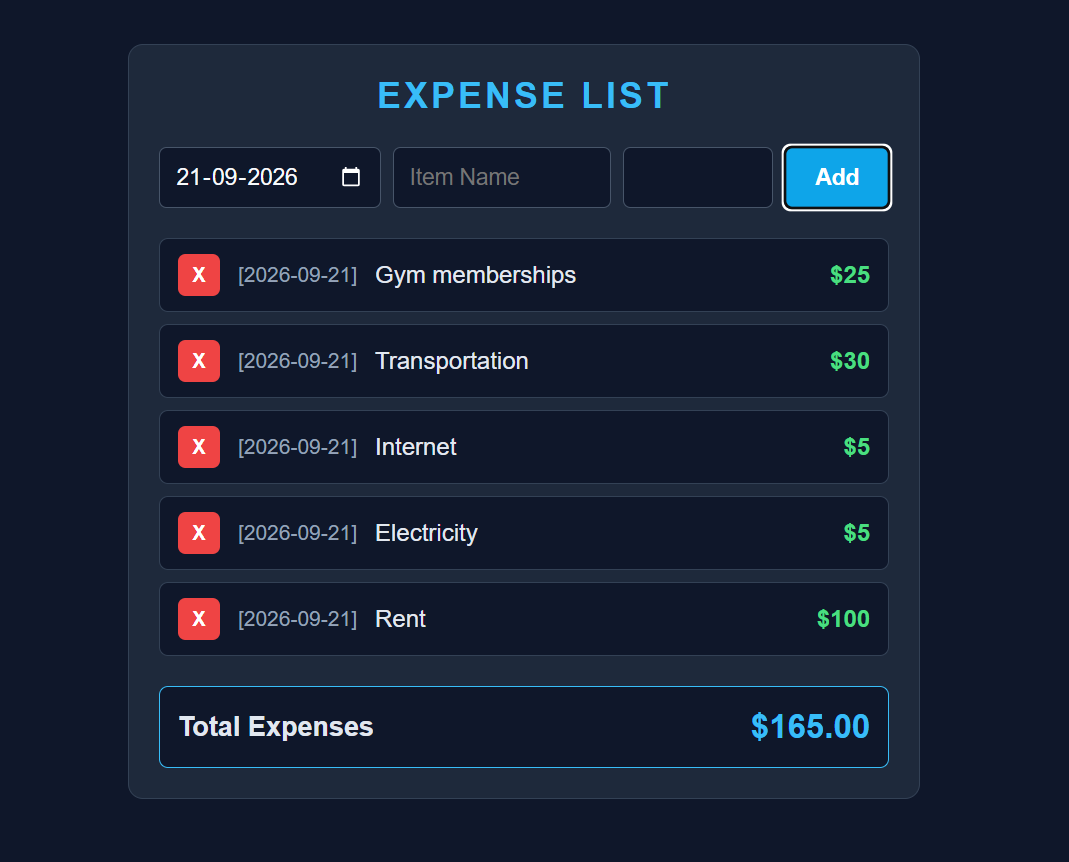
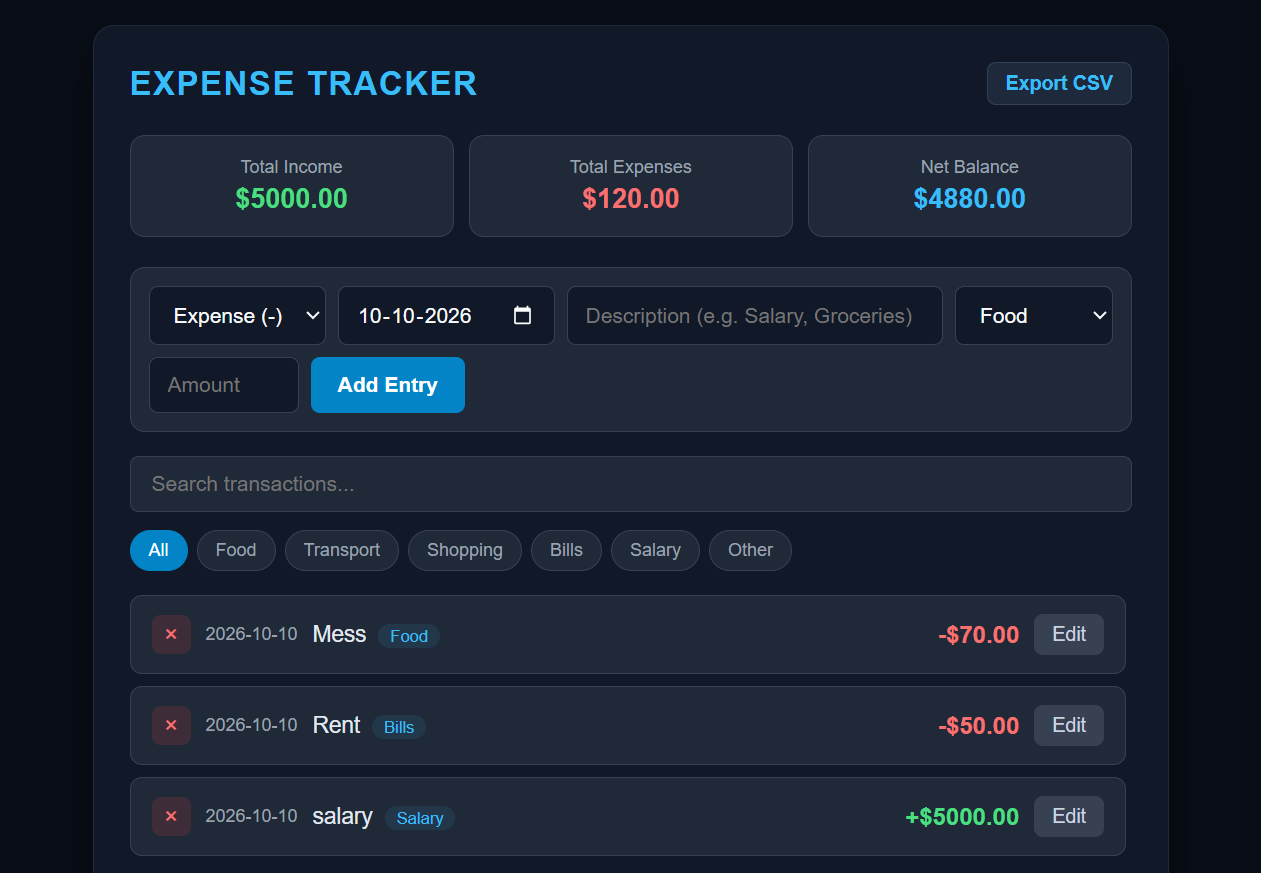
Update README

diff --git a/src/App.css b/src/App.css
@@ -15,7 +15,7 @@ body {
 
 .container {
   width: 92%;
-  max-width: 680px;
+  max-width: 780px;
   padding: 24px;
   background: #111827;
   border: 1px solid #1f2937;

diff --git a/README.md b/README.md
@@ -1,35 +1,34 @@
 # Expense Tracker (React)
 
-A simple expense tracker built with React. Add expenses with a date, name, category and amount, edit or delete them, filter by category, and see totals update instantly. Data is saved in the browser, so it is still there after a refresh.
+A simple income and expense tracker built with React. Add income or expenses with a date, description, category and amount, then edit, delete, search and filter them. The totals and net balance update instantly, and everything is saved in the browser, so it is still there after a refresh.
 
-This is the React version of my vanilla JavaScript expense list, extended with categories and editing.
+This is the React version of my vanilla JavaScript expense list, extended with income, categories, search, editing and CSV export.
 
 **Live demo:** [https://react-expense-tracker-silk-eight.vercel.app/](https://react-expense-tracker-silk-eight.vercel.app/)
 
 ## Screenshots
 
-![Expense Tracker - all expenses](screenshot.png)
-
-![Expense Tracker - filtered by category](screenshot-filter.png)
+![Expense Tracker - all entries](screenshot.png)
 
 ## Features
 
-- Add an expense with a date, item name, category and amount
-- Edit any expense (it loads back into the form, with Update and Cancel buttons)
-- Delete any expense from the list
-- Filter by category, with each filter chip showing its own total
-- Bottom total follows the selected filter
-- Expenses are sorted by date, newest first
-- Amounts are formatted as currency using `Intl.NumberFormat`
-- Data is saved in `localStorage` and reloaded when the page opens
-- Input validation: an empty name or an amount of zero or less is not accepted
+- Add an entry as **income (+)** or **expense (-)** with a date, description, category and amount
+- Summary cards for **Total Income**, **Total Expenses** and **Net Balance**
+- Edit any entry (it loads back into the form, with Update and Cancel buttons)
+- Delete any entry from the list
+- Search entries by description
+- Filter entries by category
+- Entries are sorted by date, newest first
+- Export all entries to a CSV file
+- Data is saved in `localStorage` and loaded again when the page opens
+- Input validation: an empty description or an amount of zero or less is not accepted
 - Responsive layout for desktop and mobile
 
 ## Built With
 
 - **React** (functional components and hooks)
 - **JavaScript (ES6+)**
-- **CSS3** (flexbox, media queries)
+- **CSS3** (flexbox, grid, media queries)
 - **Web Storage API** (`localStorage`)
 
 ## Getting Started
@@ -48,43 +47,48 @@ This is the React version of my vanilla JavaScript expense list, extended with c
 ```
 4. Start the development server:
 ```
-   npm run dev
+   npm start
 ```
-5. Open the address shown in the terminal (usually `http://localhost:5173`).
+5. Open the address shown in the terminal (usually `http://localhost:3000`).
 
 ## How It Works
 
-- **`useState`** holds the `expenses` array, the `form` object, the `editingId` (null when adding) and the active `filter`. Each expense looks like this:
+The code is written with plain functions, `for` loops and `if` statements, so each step is easy to follow.
+
+- **State (`useState`):** the `expenses` list, one state value for each form input (`type`, `date`, `name`, `category`, `amount`), `editId`, `filter` and `search`. Each entry looks like this:
 ```js
-  { id: 1760000000000, date: "2026-10-09", itemName: "Groceries", money: 42.5, category: "Food" }
+  { id: 1760000000000, type: "expense", date: "2026-10-09", itemName: "Groceries", category: "Food", money: 42.5 }
 ```
-- **Loading:** `useState(loadExpenses)` reads `localStorage` once on the first render, inside a `try/catch` so bad data can't crash the app. Older expenses saved without a category become "Other".
-- **Saving:** a `useEffect` writes the array back to `localStorage` whenever `expenses` changes.
-- **One form for add and edit:** `handleSubmit` checks `editingId`. If it is set, `map()` replaces that one expense. Otherwise a new expense with `Date.now()` as its `id` is added to the front of the list.
-- **Editing:** `handleEdit` copies the expense into the form and stores its `id`. Cancel resets both.
-- **Deleting:** `filter()` keeps every expense except the one with that `id`.
-- **Filtering and totals:** `byCategory()` returns the expenses for a category, and `reduce()` adds up the amounts. The chips and the bottom total both use these.
-- **Sorting:** a copy of the array (`[...]`) is sorted by date, so the original state is never changed.
+- **Loading:** `useState(loadExpenses)` reads `localStorage` once when the app opens, inside a `try/catch` so broken data can't crash the app. Entries saved by older versions without a category or type get the defaults "Other" and "expense".
+- **Saving:** a `useEffect` writes the list to `localStorage` every time `expenses` changes.
+- **One form for add and edit:** `editId` is `null` when adding. In `handleSubmit`, if `editId` is set, a loop copies the list and replaces that one entry. Otherwise the new entry is placed at the front of the list.
+- **Deleting:** a loop copies every entry except the one with that `id`.
+- **Totals:** `getTotal()` loops through the list and adds up the amounts of one type. Net balance is income minus expenses.
+- **Search and filter:** a loop keeps only the entries that match both the selected category and the search text. The result is then sorted by date.
+- **CSV export:** a loop builds the file text line by line, then a temporary download link is created and clicked.
 
 ## What I Learned
 
-- Using controlled inputs and one `handleChange` for a whole form object
-- Reusing one form for both add and edit with an `editingId` state
-- Loading `localStorage` safely with lazy state initialization
-- Updating arrays without changing the original (spread, `map`, `filter`, `sort` on a copy)
-- Deriving values (filtered list, totals) from state instead of storing them
+- Using controlled inputs to manage form state in React
+- Reusing one form for both adding and editing with an `editId` state
+- Saving and loading data with `localStorage` and `useEffect`
+- Updating lists by building a new list instead of changing the old one
+- Working out values (totals, filtered list) from state instead of storing them
+- Building and downloading a file in the browser (CSV export)
 - Rebuilding a vanilla JavaScript project in React
 
 ## Known Limitations
 
-- The currency is fixed to USD
+- The currency is fixed to `$`
+- Deleting an entry happens immediately, with no confirmation or undo
+- The categories are fixed, and "Salary" appears for expenses as well as income
+- CSV export includes all entries, even when a filter or search is active
 - Data is stored only in the current browser, so it is not shared between devices
-- Deleting an expense happens immediately, with no confirmation or undo
 
 ## Future Improvements
 
 - [ ] Filter by month or date range
 - [ ] Add a monthly summary or chart
 - [ ] Choose the currency
-- [ ] Export expenses to CSV
 - [ ] Confirm before deleting
+- [ ] Let the user add their own categories
